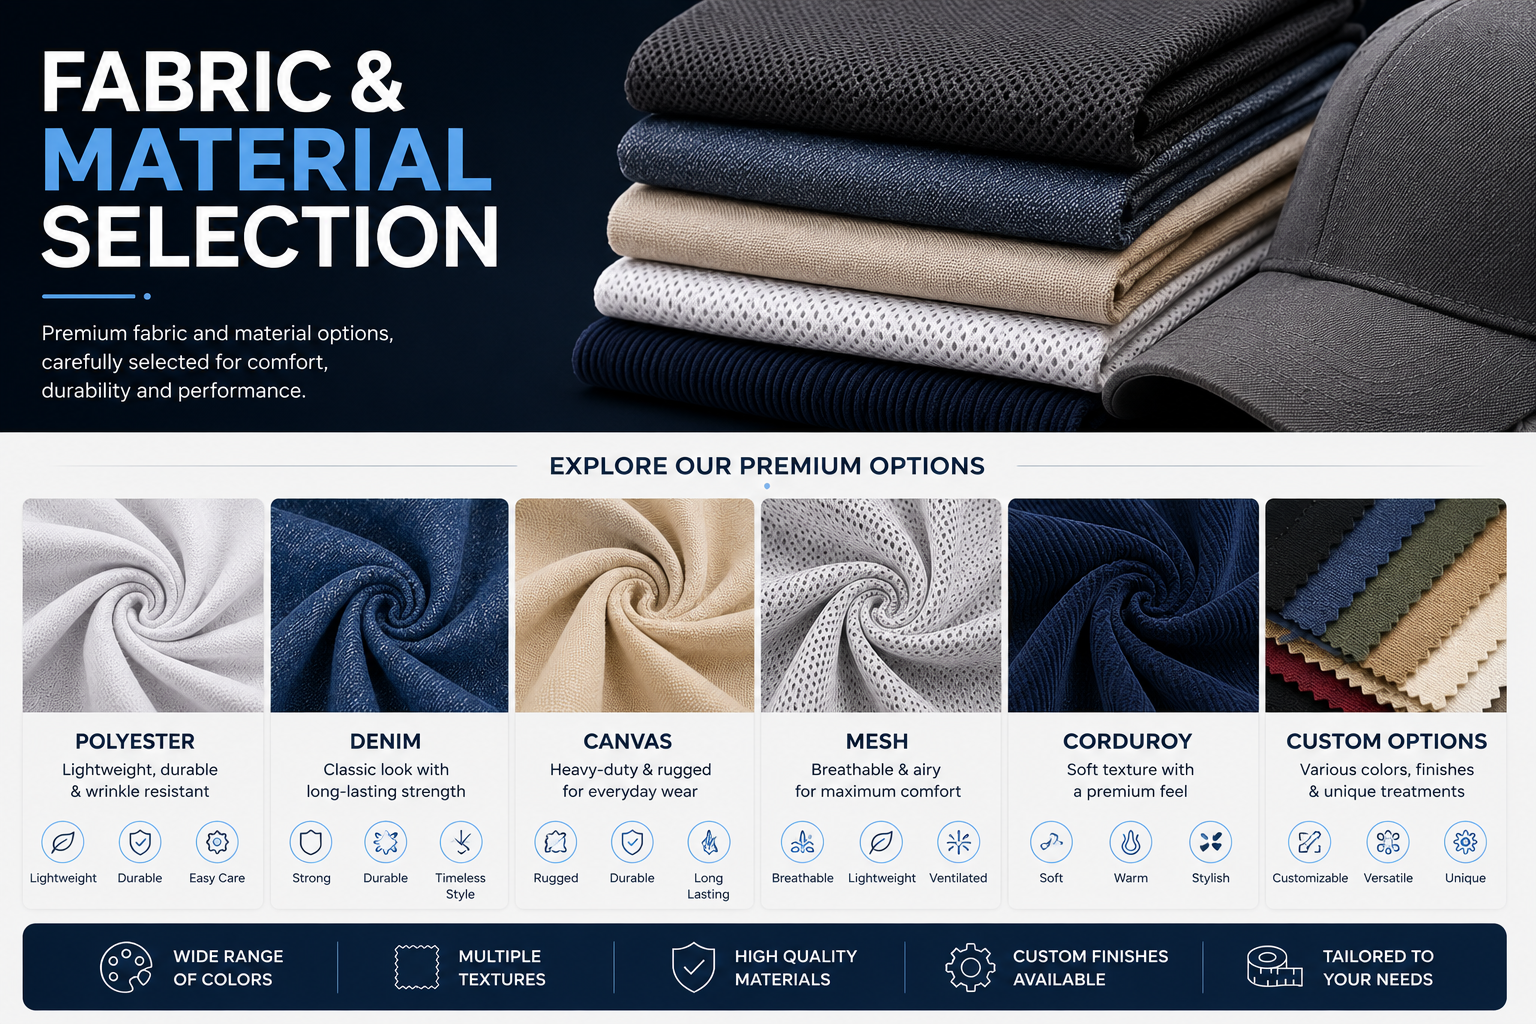
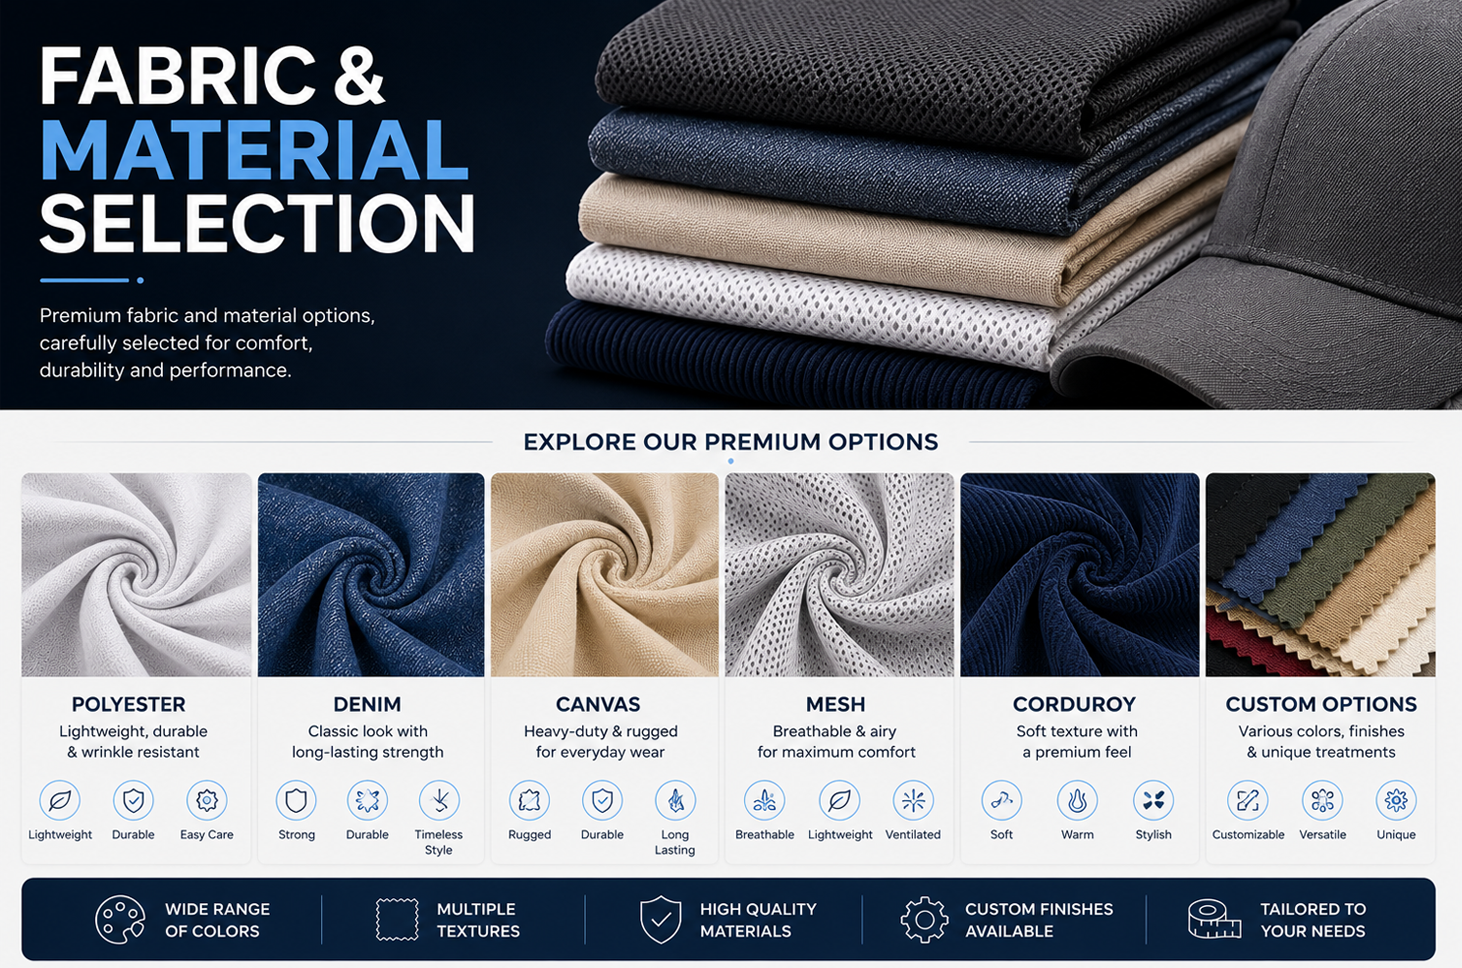
Aura

diff --git a/src/pages/ManufacturingPage.tsx b/src/pages/ManufacturingPage.tsx
@@ -98,12 +98,12 @@ export const ManufacturingPage: React.FC<ManufacturingPageProps> = ({ onOpenQuot
           {/* Active Step Feature Box */}
           <div className="grid grid-cols-1 lg:grid-cols-12 gap-8 items-center pt-4">
             <div className="lg:col-span-6 relative aspect-[16/10] sm:aspect-[4/3] rounded-2xl overflow-hidden border border-white/10 bg-slate-950">
-              <img
-                src={currentStepData.imageUrl}
-                alt={`${currentStepData.title} at Aura Global Industries Factory`}
-                referrerPolicy="no-referrer"
-                className="w-full h-full object-cover"
-              />
+               <img
+    src={currentStepData.imageUrl}
+    alt={`${currentStepData.title} at Aura Global Industries Factory`}
+    referrerPolicy="no-referrer"
+    className="w-full h-auto object-contain block"
+  />
               <div className="absolute inset-0 bg-gradient-to-t from-black/80 via-transparent to-transparent" />
               <div className="absolute bottom-4 left-4 right-4 bg-black/70 backdrop-blur-md p-3 rounded-xl border border-white/10 text-xs text-slate-300">
                 <span className="text-[#D4AF37] font-semibold">Factory Checkpoint: </span>
@@ -181,7 +181,7 @@ export const ManufacturingPage: React.FC<ManufacturingPageProps> = ({ onOpenQuot
               src="/images/Custom Fabric Options Headwear Fabric.png"
               alt="Material Selection at Aura Global Industries"
               referrerPolicy="no-referrer"
-              className="w-full h-full object-cover"
+              className="w-full h-auto object-contain block  "
             />
           </div>
         </div>
@@ -193,7 +193,7 @@ export const ManufacturingPage: React.FC<ManufacturingPageProps> = ({ onOpenQuot
               src="/images/Design & Development.png"
               alt="Design and Development CAD Pattern Engineering"
               referrerPolicy="no-referrer"
-              className="w-full h-full object-cover"
+              className="w-full h-auto object-contain block"
             />
           </div>
           <div className="space-y-3 md:order-1">
@@ -235,7 +235,7 @@ export const ManufacturingPage: React.FC<ManufacturingPageProps> = ({ onOpenQuot
               src="/images/Accurate Cutting & Stitching.png"
               alt="Precision stitching line in Karachi factory"
               referrerPolicy="no-referrer"
-              className="w-full h-full object-cover"
+              className="w-full h-auto object-contain block"
             />
           </div>
         </div>
@@ -247,7 +247,7 @@ export const ManufacturingPage: React.FC<ManufacturingPageProps> = ({ onOpenQuot
               src="/images/05 Embroidery  Printing.png"
               alt="High-density 3D puff embroidery"
               referrerPolicy="no-referrer"
-              className="w-full h-full object-cover"
+              className="w-full h-auto object-contain block"
             />
           </div>
           <div className="space-y-3 md:order-1">

diff --git a/src/pages/HomePage.tsx b/src/pages/HomePage.tsx
@@ -301,7 +301,7 @@ export const HomePage: React.FC<HomePageProps> = ({
                 src={selectedMaterial.imageUrl}
                 alt={`${selectedMaterial.name} fabric close-up - Aura Global Industries`}
                 referrerPolicy="no-referrer"
-                className="w-full h-full object-cover mt-2"
+                className="w-full h-auto object-contain block"
               />
               <div className="absolute top-3 left-3 bg-black/80 px-2.5 py-1 rounded-sm text-[10px] uppercase tracking-wider font-semibold text-[#F27D26] border border-white/10">
                 {selectedMaterial.type}
